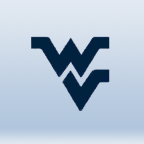
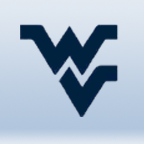
changes to the iphone home page

diff --git a/web/home/ip/index.html b/web/home/ip/index.html
@@ -65,7 +65,7 @@
 
 <body onload="scrollTo(0,1);">
 
-<h1><img src="ip/images/<?=$ip_home_logo?>" width="56" height="28" alt="" id="<?=$inst_name?> logo" />Mobile Web</h1>
+<h1><img src="ip/images/<?=$ip_home_icon?>" width="56" height="28" alt="" id="<?=$inst_name?> logo" />Mobile Web</h1>
 
 
 <div id="container">
@@ -90,8 +90,8 @@
 			<td><a href="http://sole.hsc.wvu.edu/"><img src="ip/images/sole.png" width="50" height="50" alt="SOLE" /><br/>SOLE</a></td>
 		</tr>
 		<tr>
-			<td><a href="../mobile-about/"><img src="ip/images/about.png" width="50" height="50" alt="About" /><br/>About this Site</a></td>
-			<td><a href="http://www.wvu.edu"><img src="ip/images/webmitedu.png" width="50" height="50" alt="www.wvu.edu" /><br/>Full WVU Website</a></td>
+			<td><a href="../mobile-about/"><img src="ip/images/about-wvu.png" width="50" height="50" alt="About" /><br/>About this Site</a></td>
+			<td><a href="http://<?=$main_site_addy?>"><img src="ip/images/wvuedu.png" width="50" height="50" alt="<?=$main_site_addy?>" /><br/>Full <?=$inst_name?> Website</a></td>
 		</tr>
 	</table>
 			

diff --git a/web/home/sp/index.html b/web/home/sp/index.html
@@ -26,11 +26,13 @@
 </p>
 
 <p class="nav secondary">
-	<a href="../mobile-about/">About the WVU Mobile Web</a><br/>
+	<a href="../mobile-about/">About the <?=$inst_name?> Mobile Web</a><br/>
 	<a href="../whats-new/">What's New</a><br/>
-	<a href="../sms/">WVU SMS (BETA)</a><br/>
-	<? if($phone == 'sp') { ?>
-		<a href="http://web.mit.edu">Go to web.mit.edu</a><br/>
+	<? if ($has_sms) { ?>
+		<a href="../sms/"><?=$inst_name?> SMS (BETA)</a><br/>
+	<? } ?>
+	<? if ($phone == 'sp') { ?>
+		<a href="http://<?=$main_site_addy?>">Go to <?=$main_site_addy?></a><br/>
 	<? } ?>
 </p>
 
